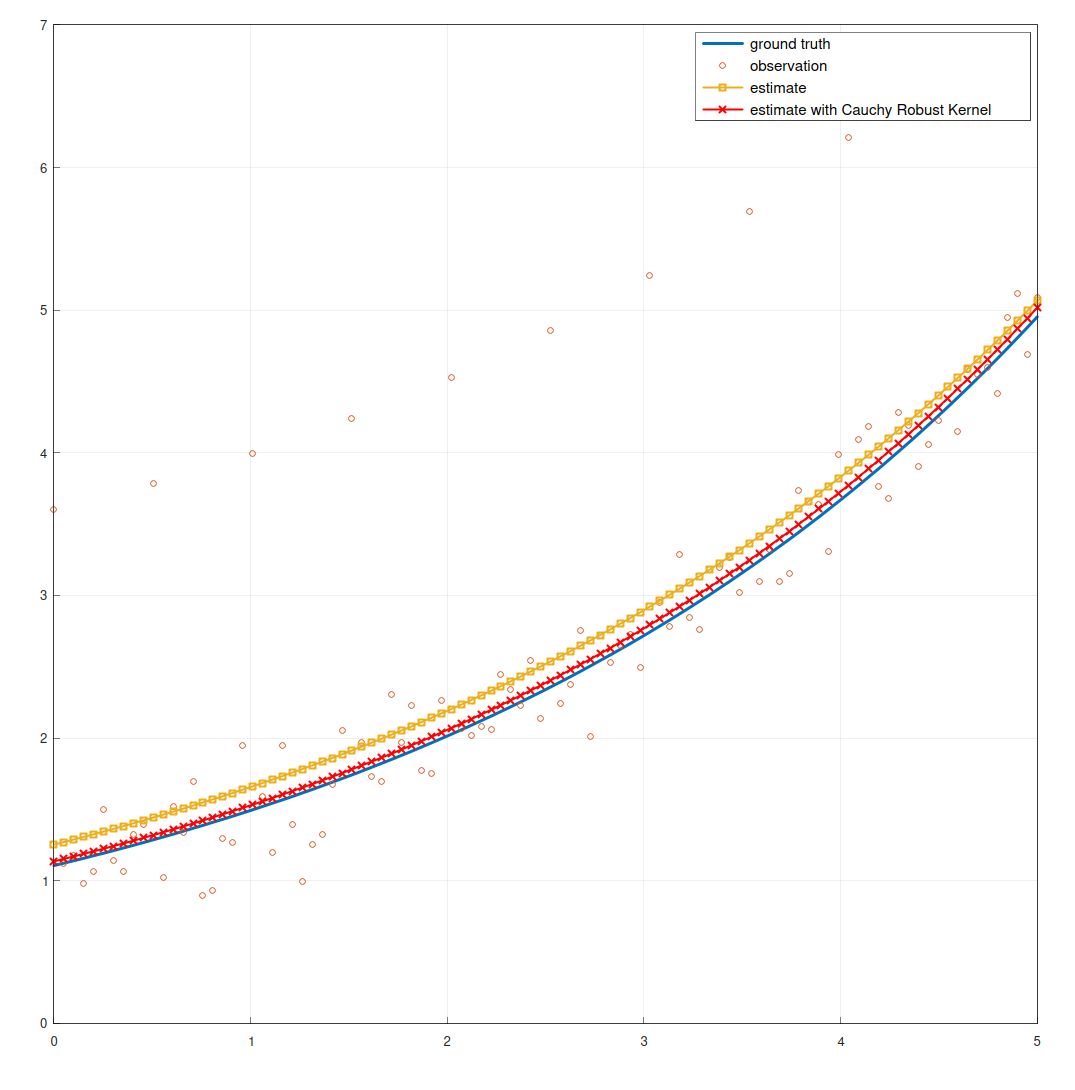
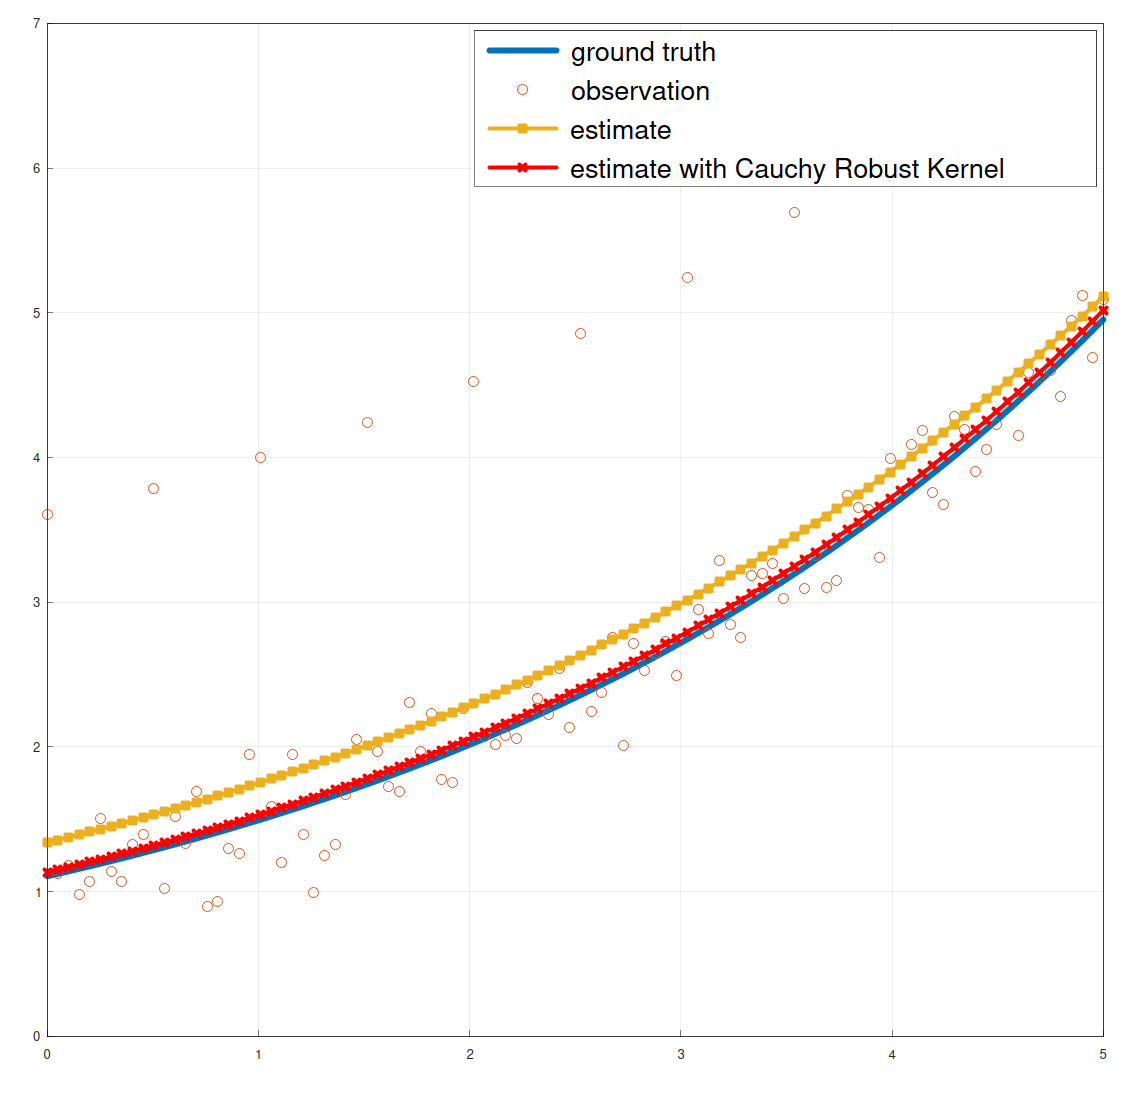
replotting

diff --git a/NonLinearOpt/GraphOpt/g2o_curve_fitting.cpp b/NonLinearOpt/GraphOpt/g2o_curve_fitting.cpp
@@ -191,14 +191,17 @@ int main() {
   }
 
   // Show the fit model
-  matplot::plot(x_gt, y_gt, "-")->line_width(3).display_name("ground truth");
+  matplot::plot(x_gt, y_gt, "-")->line_width(6).display_name("ground truth");
   matplot::hold(matplot::on);
-  matplot::plot(x_gt, y_obs, "o")->line_width(2).display_name("observation");
-  matplot::plot(x_gt, y_est, "-s")->line_width(2).display_name("estimate");
+  matplot::plot(x_gt, y_obs, "o")
+      ->marker_size(10)
+      .line_width(4)
+      .display_name("observation");
+  matplot::plot(x_gt, y_est, "-s")->line_width(4).display_name("estimate");
   matplot::plot(x_gt, y_est_with_kernel, "-rx")
-      ->line_width(2)
+      ->line_width(4)
       .display_name("estimate with Cauchy Robust Kernel");
-  matplot::legend();
+  matplot::legend()->font_size(20);
   matplot::grid(matplot::on);
   matplot::show();
 
